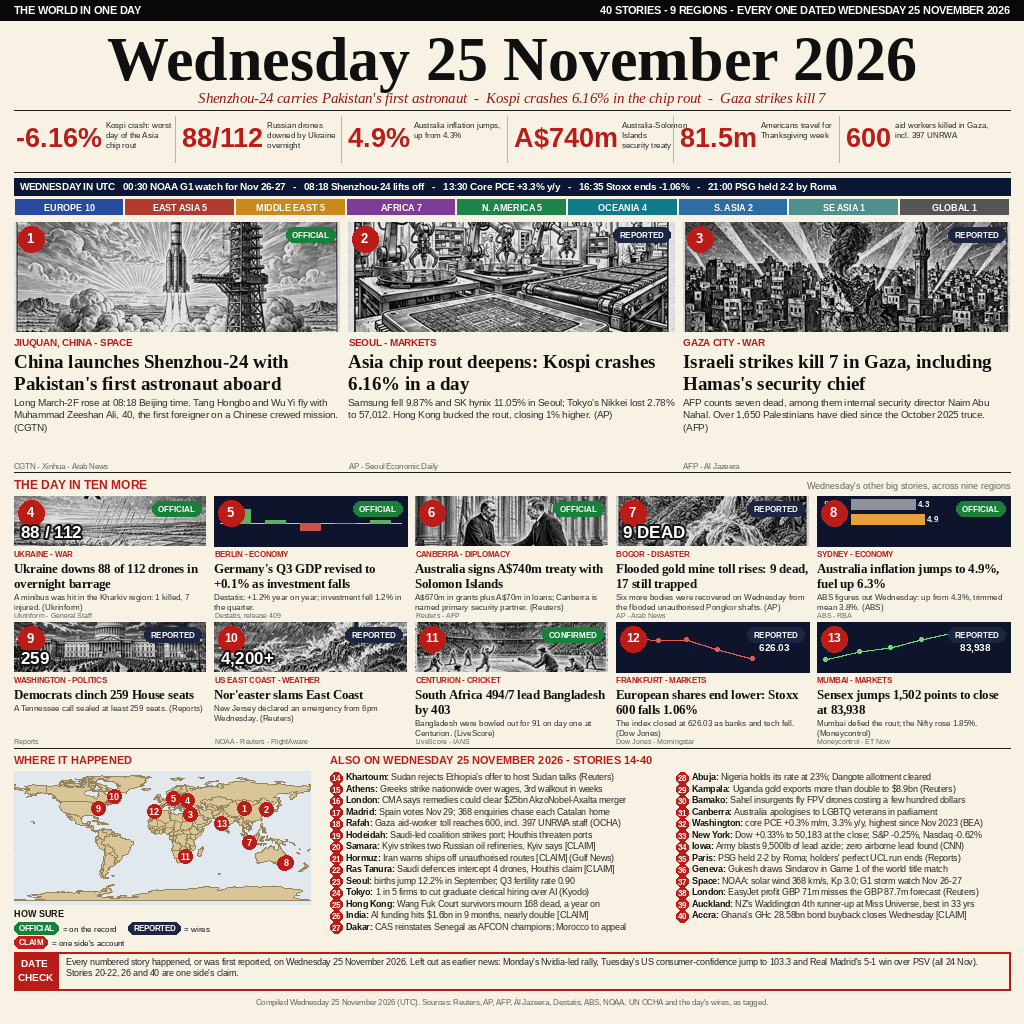
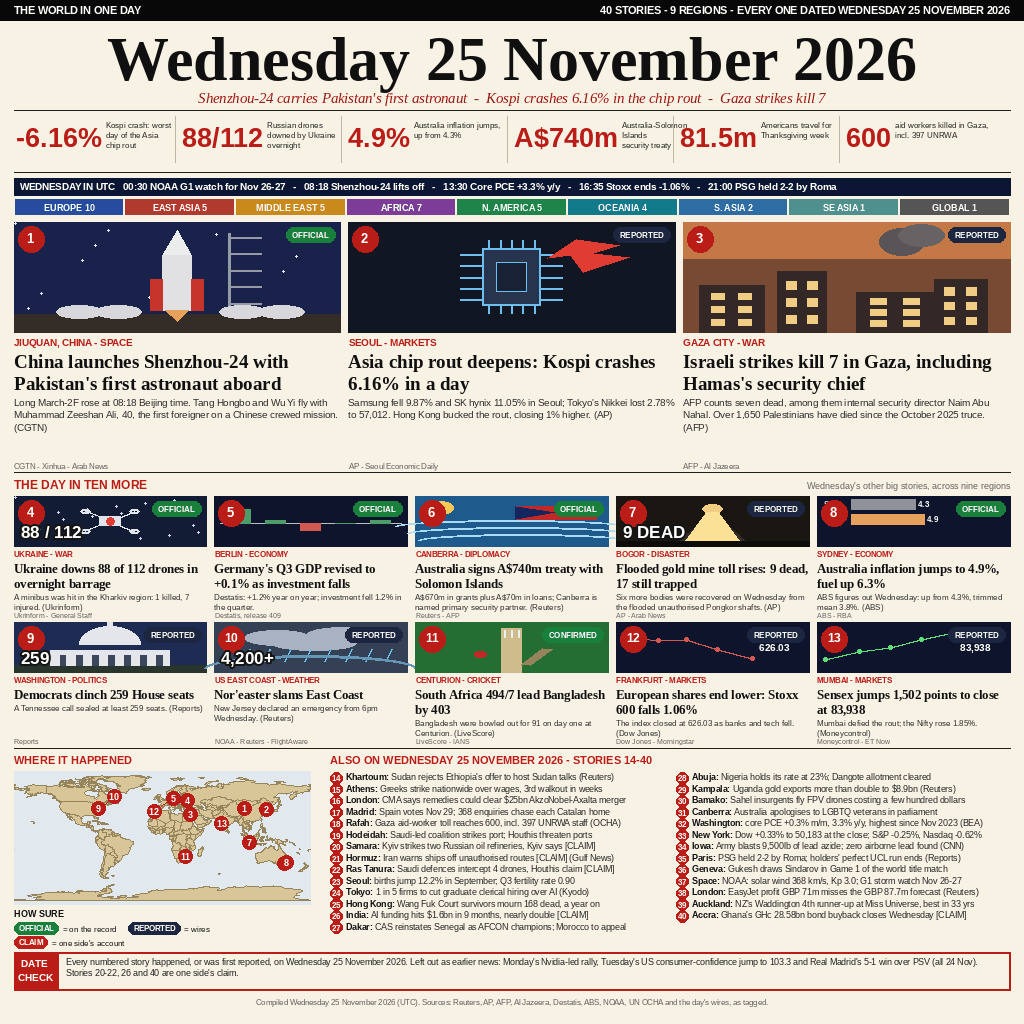
Code-drawn flat pictures + palette compression (94,792 bytes)

diff --git a/compose_winners.py b/compose_winners.py
@@ -148,13 +148,170 @@ def mini_chart(draw, kind, box):
                   fill=(255, 255, 255))
 
 
+
+def drawn_scene(draw, name, box):
+    """Simple flat code-drawn pictures (winner-style: drawn, not photos)."""
+    x0, y0, x1, y1 = box
+    w, h = x1 - x0, y1 - y0
+    cx, cy = (x0 + x1) / 2, (y0 + y1) / 2
+    if name == "rocket.webp":
+        draw.rectangle(box, fill=(24, 34, 74))
+        for i in range(14):
+            sx = x0 + (i * 67) % max(w - 4, 1)
+            sy = y0 + (i * 37) % max(h - 10, 1)
+            draw.ellipse([sx, sy, sx + 2.5, sy + 2.5], fill=(230, 230, 240))
+        draw.rectangle([x0, y1 - h * 0.16, x1, y1], fill=(52, 44, 38))
+        bx = cx - w * 0.045
+        draw.polygon([(bx, y0 + h * 0.30), (cx, y0 + h * 0.08),
+                      (bx + w * 0.09, y0 + h * 0.30)], fill=(235, 235, 235))
+        draw.rectangle([bx, y0 + h * 0.30, bx + w * 0.09, y0 + h * 0.80],
+                       fill=(225, 225, 228))
+        draw.rectangle([bx - w * 0.035, y0 + h * 0.52, bx, y0 + h * 0.80],
+                       fill=(198, 52, 44))
+        draw.rectangle([bx + w * 0.09, y0 + h * 0.52, bx + w * 0.125,
+                        y0 + h * 0.80], fill=(198, 52, 44))
+        draw.polygon([(bx + w * 0.01, y0 + h * 0.80), (cx, y1 - h * 0.10),
+                      (bx + w * 0.08, y0 + h * 0.80)], fill=(245, 170, 60))
+        tx = cx + w * 0.16
+        for f_ in range(5):
+            yy = y0 + h * (0.14 + f_ * 0.15)
+            draw.line([tx, yy, tx + w * 0.10, yy], fill=(150, 155, 170), width=2)
+        draw.line([tx, y0 + h * 0.10, tx, y1 - h * 0.14], fill=(150, 155, 170),
+                  width=3)
+        for ex in (-0.30, -0.18, 0.20, 0.32):
+            exx = cx + w * ex
+            draw.ellipse([exx - w * 0.07, y1 - h * 0.24, exx + w * 0.07,
+                          y1 - h * 0.12], fill=(215, 215, 220))
+    elif name == "chips.webp":
+        draw.rectangle(box, fill=(16, 22, 34))
+        s = min(w, h) * 0.52
+        draw.rectangle([cx - s / 2, cy - s / 2, cx + s / 2, cy + s / 2],
+                       fill=(38, 52, 78), outline=(110, 190, 240), width=2)
+        s2 = s * 0.52
+        draw.rectangle([cx - s2 / 2, cy - s2 / 2, cx + s2 / 2, cy + s2 / 2],
+                       fill=(24, 34, 54), outline=(110, 190, 240), width=1)
+        for i in range(5):
+            off = -s / 2 + (i + 0.5) * s / 5
+            draw.line([cx - s / 2 - w * 0.07, cy + off, cx - s / 2, cy + off],
+                      fill=(110, 190, 240), width=2)
+            draw.line([cx + s / 2, cy + off, cx + s / 2 + w * 0.07, cy + off],
+                      fill=(110, 190, 240), width=2)
+            draw.line([cx + off, cy - s / 2 - h * 0.07, cx + off, cy - s / 2],
+                      fill=(110, 190, 240), width=2)
+            draw.line([cx + off, cy + s / 2, cx + off, cy + s / 2 + h * 0.07],
+                      fill=(110, 190, 240), width=2)
+        ax, ay = x1 - w * 0.30, y0 + h * 0.16
+        draw.polygon([(ax, ay), (ax + w * 0.13, ay + h * 0.05),
+                      (ax + w * 0.05, ay + h * 0.13), (ax + w * 0.16,
+                      ay + h * 0.16), (ax + w * 0.02, ay + h * 0.30),
+                      (ax - w * 0.02, ay + h * 0.14), (ax - w * 0.09,
+                      ay + h * 0.17)], fill=(225, 60, 50))
+    elif name == "gaza.webp":
+        draw.rectangle(box, fill=(196, 120, 70))
+        draw.rectangle([x0, y0 + h * 0.34, x1, y1], fill=(120, 74, 52))
+        for i, (bw_, bh_) in enumerate([(0.20, 0.42), (0.15, 0.55),
+                                        (0.24, 0.36), (0.16, 0.48)]):
+            bx = x0 + w * (0.05 + i * 0.24)
+            by = y1 - h * bh_
+            draw.rectangle([bx, by, bx + w * bw_, y1], fill=(52, 40, 38))
+            for r_ in range(3):
+                for c_ in range(2):
+                    wx = bx + w * bw_ * (0.18 + c_ * 0.42)
+                    wy = by + h * bh_ * (0.16 + r_ * 0.28)
+                    draw.rectangle([wx, wy, wx + w * bw_ * 0.2,
+                                    wy + h * bh_ * 0.14], fill=(240, 205, 130))
+        draw.ellipse([cx + w * 0.10, y0 + h * 0.06, cx + w * 0.24,
+                      y0 + h * 0.30], fill=(90, 84, 88))
+        draw.ellipse([cx + w * 0.16, y0 + h * 0.02, cx + w * 0.30,
+                      y0 + h * 0.22], fill=(104, 98, 102))
+    elif name == "drone.webp":
+        draw.rectangle(box, fill=(18, 28, 52))
+        for i in range(16):
+            sx = x0 + (i * 53) % max(w - 4, 1)
+            sy = y0 + (i * 29) % max(h - 8, 1)
+            draw.ellipse([sx, sy, sx + 2, sy + 2], fill=(210, 215, 230))
+        r = min(w, h) * 0.10
+        for dx, dy in [(-1, -1), (1, -1), (-1, 1), (1, 1)]:
+            ex, ey = cx + dx * w * 0.13, cy + dy * h * 0.20
+            draw.ellipse([ex - r, ey - r * 0.4, ex + r, ey + r * 0.4],
+                         outline=(225, 228, 235), width=2)
+            draw.line([cx, cy, ex, ey], fill=(225, 228, 235), width=2)
+        draw.rectangle([cx - w * 0.055, cy - h * 0.09, cx + w * 0.055,
+                        cy + h * 0.09], fill=(225, 228, 235))
+        draw.ellipse([cx - 4, cy - 4, cx + 4, cy + 4], fill=(225, 60, 50))
+    elif name == "treaty.webp":
+        draw.rectangle(box, fill=(30, 90, 140))
+        draw.ellipse([x0 + w * 0.06, y0 + h * 0.10, x0 + w * 0.20,
+                      y0 + h * 0.36], fill=(245, 200, 90))
+        for i in range(3):
+            yy = y0 + h * (0.58 + i * 0.14)
+            draw.arc([x0 - w * 0.1 + i * w * 0.06, yy - h * 0.10,
+                      x1 + w * 0.1, yy + h * 0.16], 180, 360,
+                     fill=(170, 220, 245), width=2)
+        draw.polygon([(x0 + w * 0.52, y0 + h * 0.20), (x0 + w * 0.94,
+                       y0 + h * 0.20), (x0 + w * 0.94, y0 + h * 0.46),
+                      (x0 + w * 0.52, y0 + h * 0.46)], fill=(200, 40, 40))
+        draw.polygon([(x0 + w * 0.52, y0 + h * 0.20), (x0 + w * 0.73,
+                       y0 + h * 0.33), (x0 + w * 0.52, y0 + h * 0.46)],
+                     fill=(20, 40, 110))
+    elif name == "mine.webp":
+        draw.rectangle(box, fill=(26, 22, 18))
+        draw.polygon([(x0 + w * 0.30, y1), (cx, y0 + h * 0.30),
+                      (x0 + w * 0.70, y1)], fill=(58, 48, 38))
+        draw.ellipse([cx - w * 0.05, y0 + h * 0.16, cx + w * 0.05,
+                      y0 + h * 0.34], fill=(250, 215, 120))
+        draw.polygon([(cx - w * 0.03, y0 + h * 0.32), (cx - w * 0.16, y1),
+                      (cx + w * 0.16, y1), (cx + w * 0.03, y0 + h * 0.32)],
+                     fill=(250, 225, 150))
+        draw.rectangle([x0, y1 - h * 0.10, x1, y1], fill=(14, 12, 10))
+    elif name == "capitol.webp":
+        draw.rectangle(box, fill=(30, 44, 84))
+        base = y1 - h * 0.14
+        draw.rectangle([x0, base, x1, y1], fill=(40, 52, 44))
+        bw_ = w * 0.62
+        draw.rectangle([cx - bw_ / 2, base - h * 0.30, cx + bw_ / 2, base],
+                       fill=(228, 230, 235))
+        draw.pieslice([cx - bw_ * 0.26, base - h * 0.78, cx + bw_ * 0.26,
+                       base - h * 0.06], 180, 360, fill=(228, 230, 235))
+        draw.rectangle([cx - w * 0.012, base - h * 0.86, cx + w * 0.012,
+                        base - h * 0.62], fill=(228, 230, 235))
+        for i in range(7):
+            wx = cx - bw_ / 2 + bw_ * (0.08 + i * 0.135)
+            draw.rectangle([wx, base - h * 0.20, wx + bw_ * 0.05, base],
+                           fill=(52, 70, 110))
+    elif name == "storm.webp":
+        draw.rectangle(box, fill=(52, 64, 84))
+        for ex, ey, ew in [(0.16, 0.16, 0.34), (0.48, 0.10, 0.40),
+                           (0.30, 0.26, 0.44)]:
+            draw.ellipse([x0 + w * ex, y0 + h * ey, x0 + w * (ex + ew),
+                          y0 + h * (ey + 0.30)], fill=(168, 178, 195))
+        for i in range(9):
+            rx = x0 + w * (0.08 + i * 0.105)
+            draw.line([rx, y0 + h * 0.55, rx - w * 0.03, y0 + h * 0.78],
+                      fill=(130, 180, 230), width=2)
+        draw.arc([x0 - w * 0.05, y0 + h * 0.66, x1 + w * 0.05, y1 + h * 0.2],
+                 180, 360, fill=(90, 150, 200), width=3)
+    elif name == "cricket.webp":
+        draw.rectangle(box, fill=(36, 110, 52))
+        draw.rectangle([cx - w * 0.05, y0 + h * 0.12, cx + w * 0.05, y1],
+                       fill=(206, 188, 140))
+        for sx in (-0.035, 0.0, 0.035):
+            draw.line([cx + w * sx, y0 + h * 0.16, cx + w * sx, y0 + h * 0.30],
+                      fill=(240, 240, 240), width=2)
+        draw.polygon([(cx + w * 0.16, y0 + h * 0.52), (cx + w * 0.21,
+                       y0 + h * 0.54), (cx + w * 0.10, y0 + h * 0.86),
+                      (cx + w * 0.05, y0 + h * 0.84)], fill=(150, 105, 60))
+        draw.ellipse([cx - w * 0.19, y0 + h * 0.58, cx - w * 0.13,
+                      y0 + h * 0.70], fill=(200, 40, 40))
+    else:
+        draw.rectangle(box, fill=(60, 60, 66))
+
+
 def card_visual(img, draw, story, box, big=None):
     x0, y0, x1, y1 = box
     kind, arg = story["kind"]
     if kind == "img":
-        src = Image.open(ASSETS / arg).convert("L")
-        src = ImageOps.autocontrast(src)
-        img.paste(ImageOps.fit(src, (x1 - x0, y1 - y0)), (x0, y0))
+        drawn_scene(draw, arg, box)
     else:
         mini_chart(draw, arg, box)
     num_badge(draw, x0 + 17, y0 + 17, story["num"])
@@ -360,7 +517,9 @@ def main():
     draw.text(((W - tw) / 2, H - 26), D.SOURCES_LINE, font=f(SANS, 7.5),
               fill=GREY)
 
-    img.save(HERE / "entry.png", optimize=True)
+    img.convert("RGB").quantize(colors=256,
+                                method=Image.MEDIANCUT).save(
+        HERE / "entry.png", optimize=True)
     print("wrote", HERE / "entry.png")
 
 
